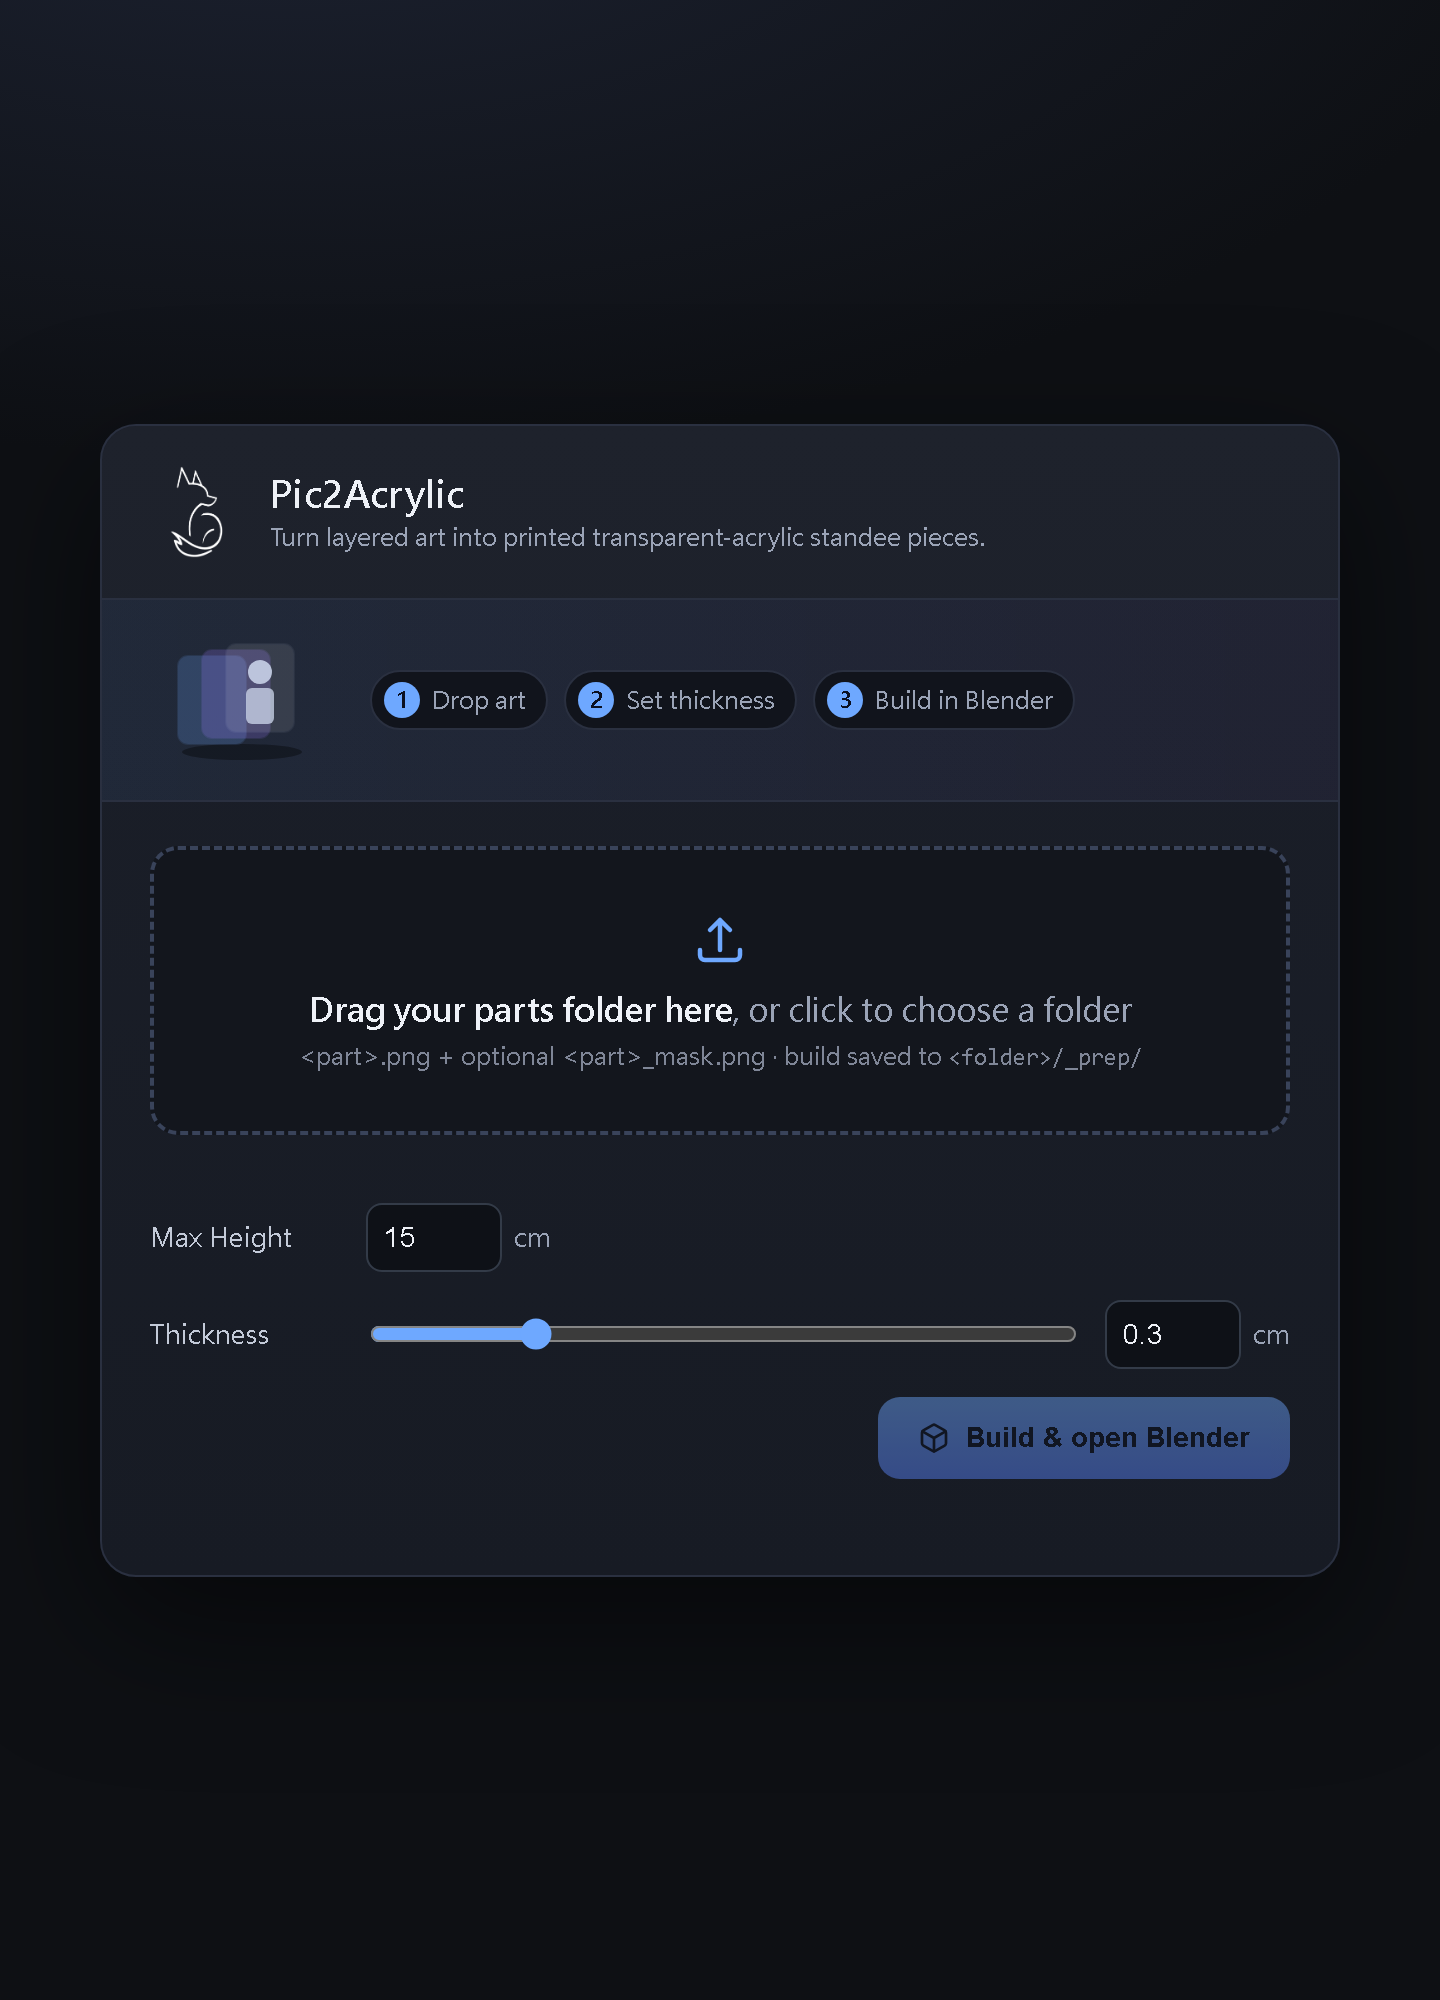
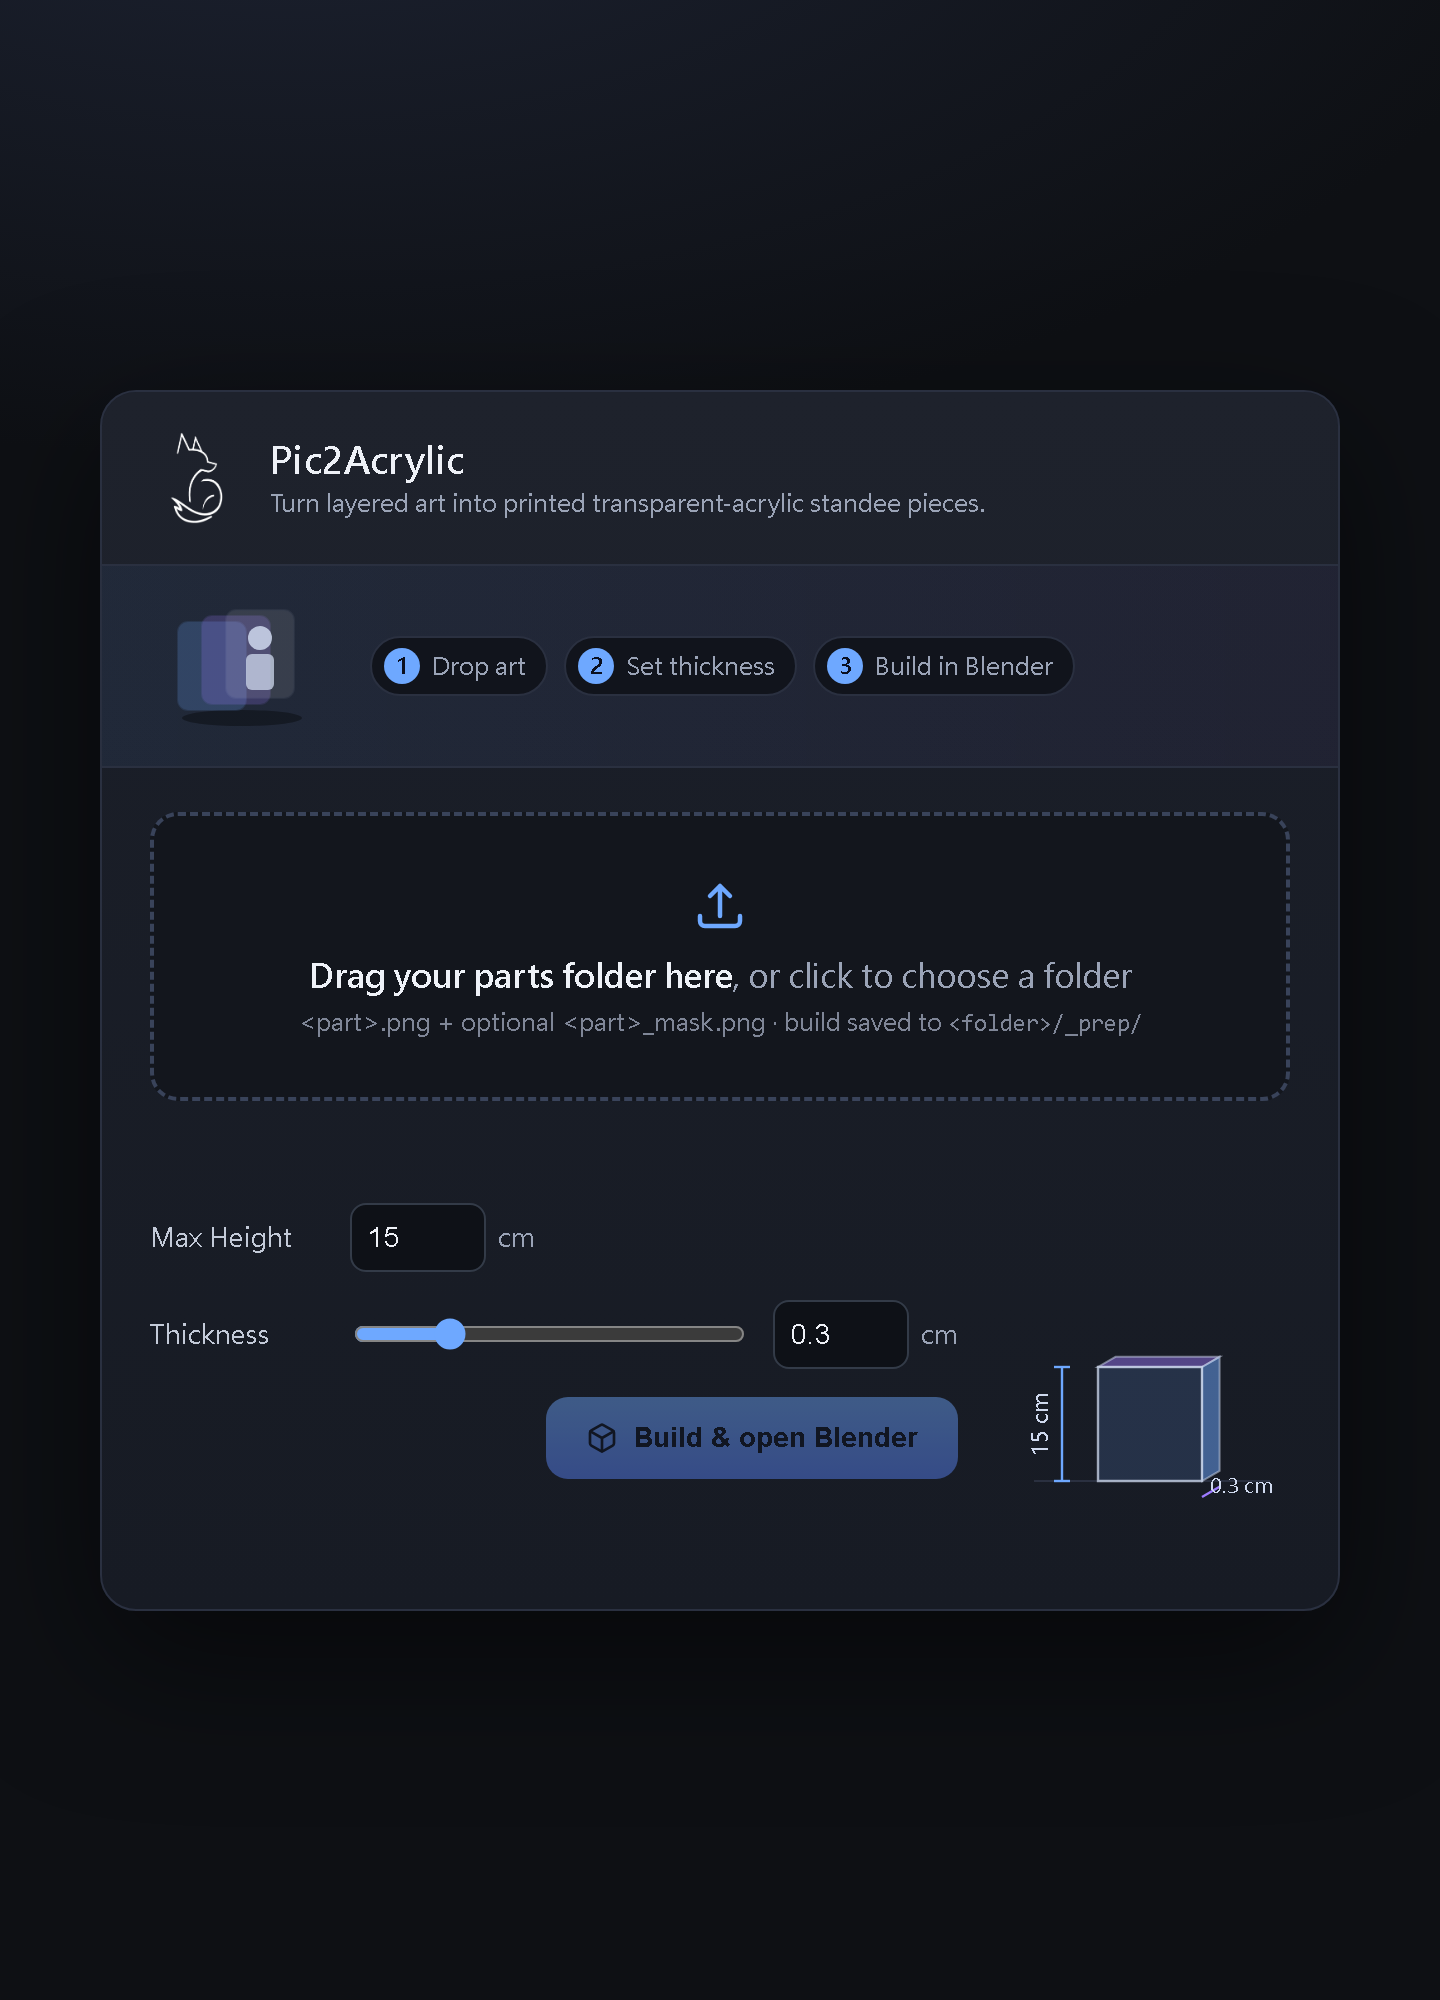
ui: live 3D mini-diagram that reacts to Max Height / Thickness sliders

diff --git a/web_ui.py b/web_ui.py
@@ -135,9 +135,12 @@ PAGE = """<!doctype html>
   .tag{font-size:10px; padding:1px 7px; border-radius:999px; border:1px solid var(--line); color:var(--muted);}
   .tag.mask{color:var(--accent2); border-color:rgba(157,123,255,.4);}
 
-  .controls{display:flex; flex-direction:column; align-items:stretch; gap:14px; margin-top:20px;}
+  .controls{display:flex; flex-direction:row; align-items:center; gap:18px; margin-top:20px;}
+  .ctrl-fields{flex:1; min-width:0; display:flex; flex-direction:column; gap:14px;}
   .field{display:flex; align-items:center; gap:12px;}
-  .field label{font-size:13px; color:#c3cad8; white-space:nowrap; width:96px;}
+  .field label{font-size:13px; color:#c3cad8; white-space:nowrap; width:88px;}
+  .diagram{flex:0 0 auto; width:148px;}
+  .diagram svg{width:148px; height:auto; display:block;}
   input[type=range]{flex:1; accent-color:var(--accent); min-width:80px;}
   input[type=number]{width:68px; background:#0e1117; border:1px solid #333b48; color:var(--ink);
         border-radius:8px; padding:8px 8px; font-size:14px;}
@@ -208,24 +211,41 @@ PAGE = """<!doctype html>
       <ul id="files"></ul>
 
       <div class="controls">
-        <div class="field" title="Real-world height of the TALLEST piece; everything else scales to match.">
-          <label for="height">Max Height</label>
-          <input id="height" type="number" min="1" step="0.5" value="15">
-          <span class="unit">cm</span>
+        <div class="ctrl-fields">
+          <div class="field" title="Real-world height of the TALLEST piece; everything else scales to match.">
+            <label for="height">Max Height</label>
+            <input id="height" type="number" min="1" step="0.5" value="15">
+            <span class="unit">cm</span>
+          </div>
+          <div class="field thick">
+            <label for="thickness">Thickness</label>
+            <input id="trange" type="range" min="0.1" max="1" step="0.05" value="0.3">
+            <input id="thickness" type="number" min="0.1" step="0.05" value="0.3">
+            <span class="unit">cm</span>
+          </div>
+          <button id="build" disabled>
+            <svg width="16" height="16" viewBox="0 0 24 24" fill="none" stroke="currentColor" stroke-width="2" stroke-linecap="round" stroke-linejoin="round">
+              <path d="M21 16V8a2 2 0 0 0-1-1.7l-7-4a2 2 0 0 0-2 0l-7 4A2 2 0 0 0 3 8v8a2 2 0 0 0 1 1.7l7 4a2 2 0 0 0 2 0l7-4A2 2 0 0 0 21 16z"/>
+              <path d="M3.3 7L12 12l8.7-5M12 22V12"/>
+            </svg>
+            Build &amp; open Blender
+          </button>
         </div>
-        <div class="field thick">
-          <label for="thickness">Thickness</label>
-          <input id="trange" type="range" min="0.1" max="1" step="0.05" value="0.3">
-          <input id="thickness" type="number" min="0.1" step="0.05" value="0.3">
-          <span class="unit">cm</span>
-        </div>
-        <button id="build" disabled>
-          <svg width="16" height="16" viewBox="0 0 24 24" fill="none" stroke="currentColor" stroke-width="2" stroke-linecap="round" stroke-linejoin="round">
-            <path d="M21 16V8a2 2 0 0 0-1-1.7l-7-4a2 2 0 0 0-2 0l-7 4A2 2 0 0 0 3 8v8a2 2 0 0 0 1 1.7l7 4a2 2 0 0 0 2 0l7-4A2 2 0 0 0 21 16z"/>
-            <path d="M3.3 7L12 12l8.7-5M12 22V12"/>
+
+        <div class="diagram" aria-hidden="true">
+          <svg id="dim" viewBox="0 0 148 172" xmlns="http://www.w3.org/2000/svg">
+            <line x1="20" y1="156" x2="138" y2="156" stroke="#2a3040" stroke-width="1"/>
+            <polygon id="d-top"   fill="#9d7bff" fill-opacity=".45" stroke="#cfd9ee" stroke-opacity=".5" stroke-width="1"/>
+            <polygon id="d-side"  fill="#6ea8ff" fill-opacity=".5"  stroke="#cfd9ee" stroke-opacity=".5" stroke-width="1"/>
+            <polygon id="d-front" fill="#6ea8ff" fill-opacity=".16" stroke="#cfd9ee" stroke-opacity=".75" stroke-width="1.2"/>
+            <line id="d-haxis" stroke="#6ea8ff" stroke-width="1.2"/>
+            <line id="d-htop"  stroke="#6ea8ff" stroke-width="1.2"/>
+            <line id="d-hbot"  stroke="#6ea8ff" stroke-width="1.2"/>
+            <text id="d-hlabel" fill="#cfd9ee" font-size="11" text-anchor="middle"></text>
+            <line id="d-taxis" stroke="#9d7bff" stroke-width="1.2"/>
+            <text id="d-tlabel" fill="#cfd9ee" font-size="10" text-anchor="middle"></text>
           </svg>
-          Build &amp; open Blender
-        </button>
+        </div>
       </div>
       <div id="prog" class="prog" hidden><span id="bar"></span></div>
       <div id="log" class="log"></div>
@@ -304,8 +324,36 @@ PAGE = """<!doctype html>
     dirHandle=null; addFiles(loose);
   });
 
-  range.oninput=()=>{ num.value=range.value; };
-  num.oninput=()=>{ const v=parseFloat(num.value); if(!isNaN(v)) range.value=Math.min(1,Math.max(0.1,v)); };
+  // live 3D-ish diagram so users see what Max Height / Thickness mean
+  const SVGNS='http://www.w3.org/2000/svg';
+  function setAttrs(id,a){ const el=document.getElementById(id); for(const k in a) el.setAttribute(k,a[k]); }
+  function pts(arr){ return arr.map(p=>p[0].toFixed(1)+','+p[1].toFixed(1)).join(' '); }
+  function updateDiagram(){
+    const H=parseFloat(heightEl.value)||0, T=parseFloat(num.value)||0;
+    const baseY=156, x0=52, w=52;
+    const hpx=Math.min(120, Math.max(24, H*3.8));   // taller value -> taller sheet
+    const topY=baseY-hpx;
+    const dpx=Math.min(30, Math.max(4, T*34));        // thicker value -> deeper side
+    const dx=dpx*0.86, dy=dpx*0.5;
+    setAttrs('d-front',{points:pts([[x0,topY],[x0+w,topY],[x0+w,baseY],[x0,baseY]])});
+    setAttrs('d-top',{points:pts([[x0,topY],[x0+w,topY],[x0+w+dx,topY-dy],[x0+dx,topY-dy]])});
+    setAttrs('d-side',{points:pts([[x0+w,topY],[x0+w+dx,topY-dy],[x0+w+dx,baseY-dy],[x0+w,baseY]])});
+    const ax=34;
+    setAttrs('d-haxis',{x1:ax,y1:baseY,x2:ax,y2:topY});
+    setAttrs('d-htop',{x1:ax-4,y1:topY,x2:ax+4,y2:topY});
+    setAttrs('d-hbot',{x1:ax-4,y1:baseY,x2:ax+4,y2:baseY});
+    const my=(topY+baseY)/2;
+    setAttrs('d-hlabel',{x:ax-7,y:my,transform:'rotate(-90 '+(ax-7)+' '+my+')'});
+    document.getElementById('d-hlabel').textContent=H+' cm';
+    setAttrs('d-taxis',{x1:x0+w,y1:baseY+8,x2:x0+w+dx,y2:baseY+8-dy});
+    setAttrs('d-tlabel',{x:x0+w+dx+11,y:baseY+8-dy+3});
+    document.getElementById('d-tlabel').textContent=T+' cm';
+  }
+
+  range.oninput=()=>{ num.value=range.value; updateDiagram(); };
+  num.oninput=()=>{ const v=parseFloat(num.value); if(!isNaN(v)) range.value=Math.min(1,Math.max(0.1,v)); updateDiagram(); };
+  heightEl.oninput=updateDiagram;
+  updateDiagram();
 
   async function writeBlendBack(){
     const buf=await (await fetch('/result.blend')).arrayBuffer();